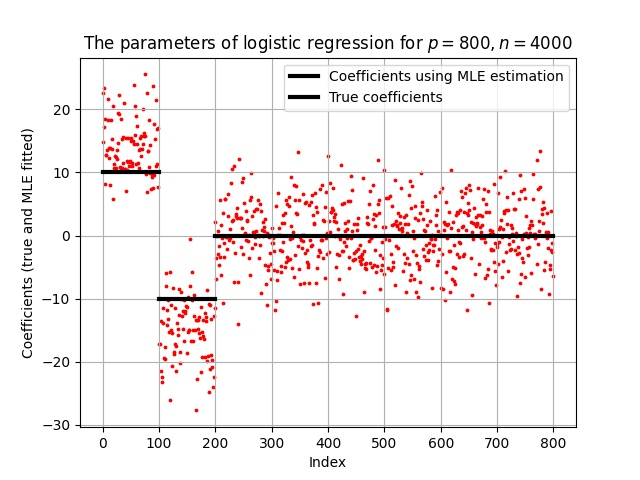
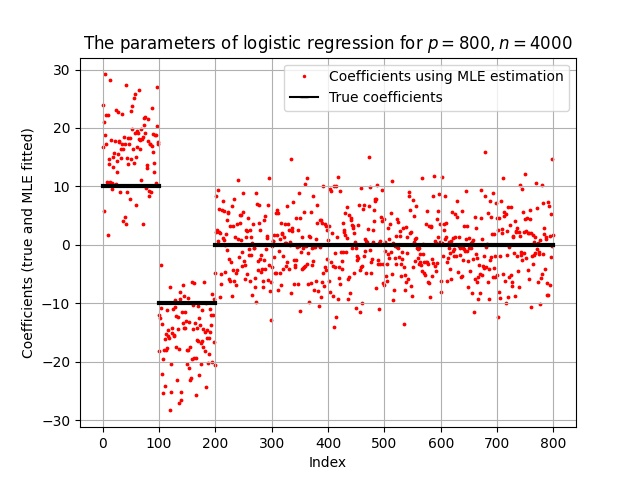
fix bias plot

diff --git a/demo_plotting/demo_bias.py b/demo_plotting/demo_bias.py
@@ -3,6 +3,7 @@ from torch.distributions.normal import Normal
 import numpy as np
 import statsmodels.api as sm
 import matplotlib.pyplot as plt
+import matplotlib.lines as mlines
 
 p = 800 # Number of features
 n = 4000
@@ -17,8 +18,6 @@ beta = torch.zeros(p)
 beta[:p//8] = 10
 beta[p//8:p//4] = -10
 
-print(torch.matmul(x_samples,beta).var())
-
 proba = torch.sigmoid(torch.matmul(x_samples,beta))
 y = torch.bernoulli(proba)
 lr = sm.Logit(y.numpy(), x_samples.numpy()).fit()
@@ -30,12 +29,13 @@ plt.plot((p//4,p),(0,0),'-',color='black', linewidth=3)
 plt.title('The parameters of logistic regression for $p=800, n=4000$')
 plt.xlabel('Index')
 plt.ylabel('Coefficients (true and MLE fitted)')
-plt.legend(['Coefficients using MLE estimation','True coefficients'])
+est_patch = mlines.Line2D([],[],color='red', marker='.', markersize=3, linestyle='None', label='Coefficients using MLE estimation')
+true_patch = mlines.Line2D([],[],color='black', marker='_',label='True coefficients')
+plt.legend(handles=[est_patch, true_patch])
 
 plt.grid()
 plt.savefig('demo_plotting/plots/bias.pdf')
 plt.savefig('demo_plotting/plots/bias.jpg')
-plt.show()
 
 
 

diff --git a/demo_plotting/demo_sigmoid_bounds.py b/demo_plotting/demo_sigmoid_bounds.py
@@ -20,4 +20,3 @@ plt.title(r'Plot showing the range of $\beta^TX_i $ after scaling')
 plt.grid()
 plt.savefig('demo_plotting/plots/sigmoid.pdf')
 plt.savefig('demo_plotting/plots/sigmoid.jpg')
-plt.show
